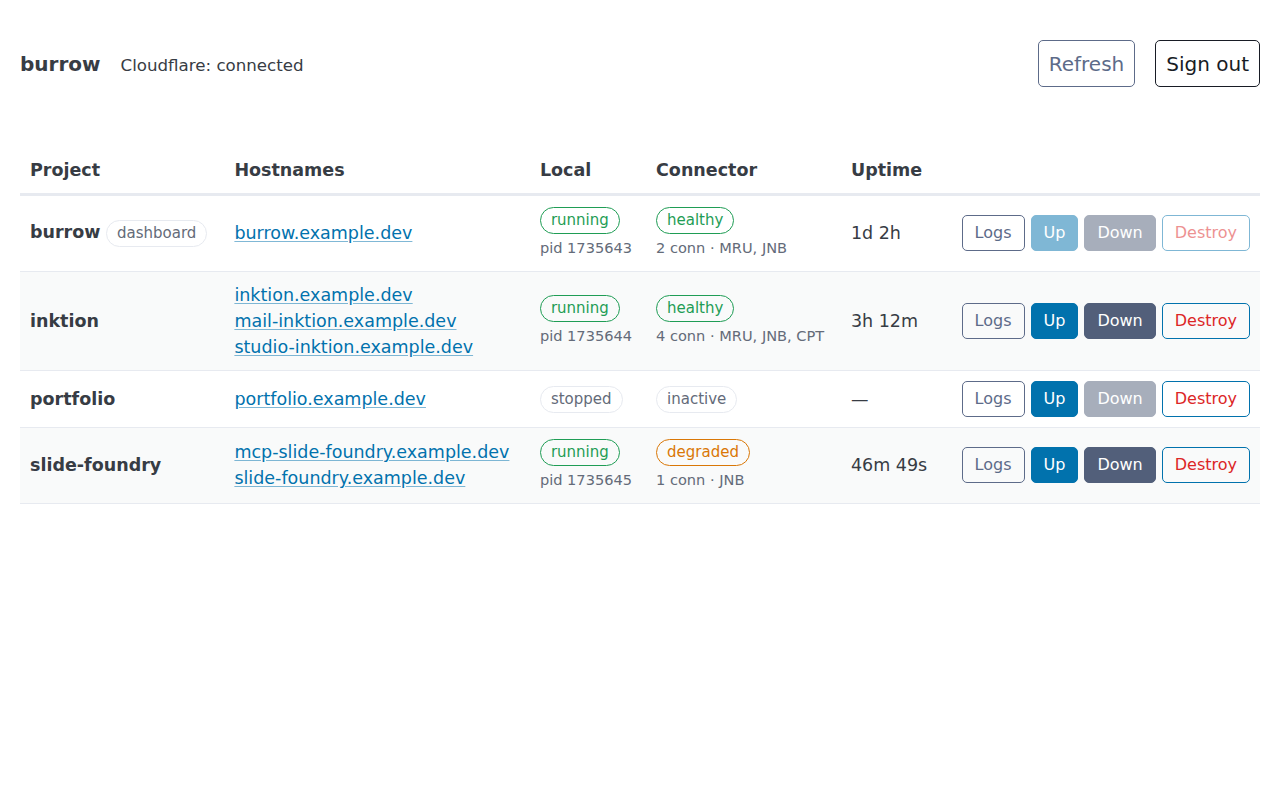
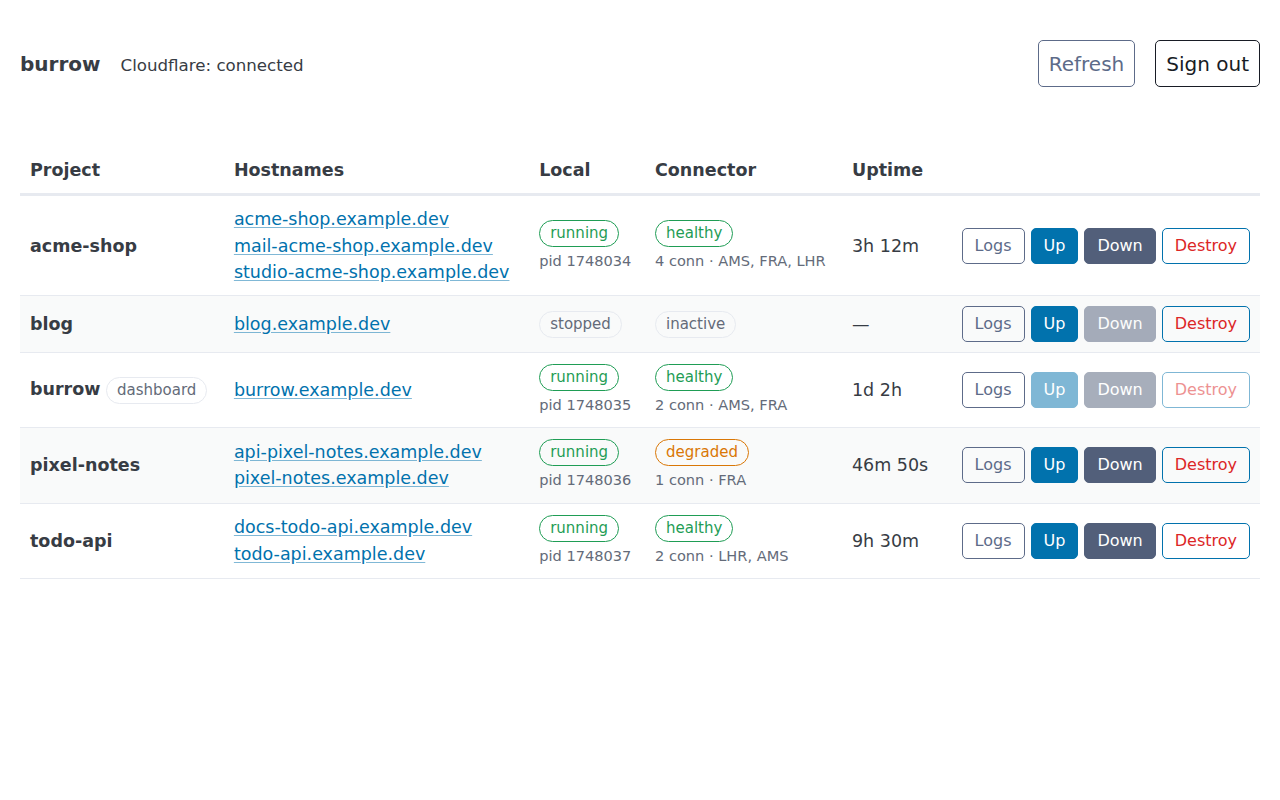
Use fictional project names in examples, tests, README and screenshots

diff --git a/test/ingress.test.js b/test/ingress.test.js
@@ -3,7 +3,7 @@ import assert from 'node:assert/strict';
 import { readFileSync } from 'node:fs';
 import { parseProject, buildIngress, hostnames, pathRegex } from '../src/project.js';
 
-const example = readFileSync(new URL('../examples/inktion.tunnel.yml', import.meta.url), 'utf8');
+const example = readFileSync(new URL('../examples/acme-shop.tunnel.yml', import.meta.url), 'utf8');
 
 test('pathRegex anchors plain prefixes and passes regex through', () => {
   assert.equal(pathRegex('/auth/v1'), '^/auth/v1(/.*)?$');
@@ -16,25 +16,25 @@ test('pathRegex anchors plain prefixes and passes regex through', () => {
   assert.ok(!re.test('/x/auth/v1'));
 });
 
-test('InkTion example hostnames', () => {
+test('acme-shop example hostnames', () => {
   const proj = parseProject(example);
   assert.deepEqual(hostnames(proj, 'example.dev'), [
-    { service: 'app', hostname: 'inktion.example.dev' },
-    { service: 'mail', hostname: 'mail-inktion.example.dev' },
-    { service: 'studio', hostname: 'studio-inktion.example.dev' },
+    { service: 'app', hostname: 'acme-shop.example.dev' },
+    { service: 'mail', hostname: 'mail-acme-shop.example.dev' },
+    { service: 'studio', hostname: 'studio-acme-shop.example.dev' },
   ]);
 });
 
-test('InkTion example ingress: path rules first, then hosts, then 404', () => {
+test('acme-shop example ingress: path rules first, then hosts, then 404', () => {
   const ingress = buildIngress(parseProject(example), 'example.dev');
   assert.deepEqual(ingress, [
-    { hostname: 'inktion.example.dev', path: '^/auth/v1(/.*)?$', service: 'http://localhost:54321' },
-    { hostname: 'inktion.example.dev', path: '^/rest/v1(/.*)?$', service: 'http://localhost:54321' },
-    { hostname: 'inktion.example.dev', path: '^/storage/v1(/.*)?$', service: 'http://localhost:54321' },
-    { hostname: 'inktion.example.dev', path: '^/realtime/v1(/.*)?$', service: 'http://localhost:54321' },
-    { hostname: 'inktion.example.dev', service: 'http://localhost:3100' },
-    { hostname: 'mail-inktion.example.dev', service: 'http://localhost:54324' },
-    { hostname: 'studio-inktion.example.dev', service: 'http://localhost:54323' },
+    { hostname: 'acme-shop.example.dev', path: '^/auth/v1(/.*)?$', service: 'http://localhost:54321' },
+    { hostname: 'acme-shop.example.dev', path: '^/rest/v1(/.*)?$', service: 'http://localhost:54321' },
+    { hostname: 'acme-shop.example.dev', path: '^/storage/v1(/.*)?$', service: 'http://localhost:54321' },
+    { hostname: 'acme-shop.example.dev', path: '^/realtime/v1(/.*)?$', service: 'http://localhost:54321' },
+    { hostname: 'acme-shop.example.dev', service: 'http://localhost:3100' },
+    { hostname: 'mail-acme-shop.example.dev', service: 'http://localhost:54324' },
+    { hostname: 'studio-acme-shop.example.dev', service: 'http://localhost:54323' },
     { service: 'http_status:404' },
   ]);
 });

diff --git a/test/naming.test.js b/test/naming.test.js
@@ -3,23 +3,23 @@ import assert from 'node:assert/strict';
 import { hostnameFor, tunnelName, recordComment, tunnelTarget } from '../src/naming.js';
 
 test('root service uses <project>.<domain>', () => {
-  assert.equal(hostnameFor('inktion', { name: 'app', root: true }, 'example.dev'), 'inktion.example.dev');
+  assert.equal(hostnameFor('acme-shop', { name: 'app', root: true }, 'example.dev'), 'acme-shop.example.dev');
 });
 
 test('sub-services use flat <service>-<project>.<domain>', () => {
-  assert.equal(hostnameFor('inktion', { name: 'mail' }, 'example.dev'), 'mail-inktion.example.dev');
-  assert.equal(hostnameFor('inktion', { name: 'studio' }, 'example.dev'), 'studio-inktion.example.dev');
+  assert.equal(hostnameFor('acme-shop', { name: 'mail' }, 'example.dev'), 'mail-acme-shop.example.dev');
+  assert.equal(hostnameFor('acme-shop', { name: 'studio' }, 'example.dev'), 'studio-acme-shop.example.dev');
 });
 
 test('rejects dotted or invalid labels (would need deeper certs)', () => {
   assert.throws(() => hostnameFor('ink.tion', { name: 'app', root: true }, 'example.dev'));
-  assert.throws(() => hostnameFor('inktion', { name: 'mail.x' }, 'example.dev'));
-  assert.throws(() => hostnameFor('InkTion', { name: 'app', root: true }, 'example.dev'));
-  assert.throws(() => hostnameFor('inktion', { name: '-mail' }, 'example.dev'));
+  assert.throws(() => hostnameFor('acme-shop', { name: 'mail.x' }, 'example.dev'));
+  assert.throws(() => hostnameFor('AcmeShop', { name: 'app', root: true }, 'example.dev'));
+  assert.throws(() => hostnameFor('acme-shop', { name: '-mail' }, 'example.dev'));
 });
 
 test('requires a domain', () => {
-  assert.throws(() => hostnameFor('inktion', { name: 'app', root: true }, ''), /BURROW_DOMAIN/);
+  assert.throws(() => hostnameFor('acme-shop', { name: 'app', root: true }, ''), /BURROW_DOMAIN/);
 });
 
 test('rejects labels over 63 chars', () => {
@@ -27,7 +27,7 @@ test('rejects labels over 63 chars', () => {
 });
 
 test('tunnel name, comment tag and target', () => {
-  assert.equal(tunnelName('inktion'), 'burrow-inktion');
-  assert.equal(recordComment('inktion'), 'burrow:inktion');
+  assert.equal(tunnelName('acme-shop'), 'burrow-acme-shop');
+  assert.equal(recordComment('acme-shop'), 'burrow:acme-shop');
   assert.equal(tunnelTarget('abc'), 'abc.cfargotunnel.com');
 });

diff --git a/test/lifecycle.test.js b/test/lifecycle.test.js
@@ -13,14 +13,14 @@ const { isYes, down, destroy } = await import('../src/commands.js');
 test.after(() => rmSync(dir, { recursive: true, force: true }));
 
 test('localProjects lists every pid file in the state dir', () => {
-  writeFileSync(join(dir, 'inktion.pid'), '999999999');
+  writeFileSync(join(dir, 'todo-api.pid'), '999999999');
   writeFileSync(join(dir, 'blog.pid'), '999999998');
   writeFileSync(join(dir, 'blog.log'), '');
-  assert.deepEqual(localProjects(), ['blog', 'inktion']);
+  assert.deepEqual(localProjects(), ['blog', 'todo-api']);
 });
 
 test('stale pids are not reported as running', () => {
-  assert.equal(runningPid('inktion'), null);
+  assert.equal(runningPid('todo-api'), null);
 });
 
 test('down with no project stops every local connector and clears stale pid files', async () => {

diff --git a/README.md b/README.md
@@ -17,8 +17,8 @@ certificate (`*.<domain>`) covers every hostname:
 | root (`app`)       | `<project>.<domain>`           |
 | any other service  | `<service>-<project>.<domain>` |
 
-Example with `BURROW_DOMAIN=example.dev`: `inktion.example.dev`,
-`mail-inktion.example.dev`, `studio-inktion.example.dev`.
+Example with `BURROW_DOMAIN=example.dev`: `acme-shop.example.dev`,
+`mail-acme-shop.example.dev`, `studio-acme-shop.example.dev`.
 
 Cloudflare objects are named and tagged so burrow can find them again:
 
@@ -30,7 +30,7 @@ Cloudflare objects are named and tagged so burrow can find them again:
 Requires Node 18+ and [`cloudflared`](https://github.com/cloudflare/cloudflared/releases).
 
 ```sh
-git clone git@github.com:zfir-dev/burrow.git && cd burrow
+git clone <this-repo-url> burrow && cd burrow
 npm install
 npm link        # puts `burrow` on PATH
 ```
@@ -65,7 +65,7 @@ Every value can also come from the environment. `BURROW_CONFIG` and
 Put a `tunnel.yml` in the project directory, or pass one with `-f`.
 
 ```yaml
-project: inktion
+project: acme-shop
 services:
   - name: app                 # "app" is the root service (or set root: true on one service)
     url: http://localhost:3100
@@ -87,7 +87,7 @@ services:
   `originRequest: { noTLSVerify: true }`.
 - burrow adds a final `http_status:404` rule.
 
-See [`examples/inktion.tunnel.yml`](examples/inktion.tunnel.yml).
+See [`examples/acme-shop.tunnel.yml`](examples/acme-shop.tunnel.yml).
 
 ## Commands
 
